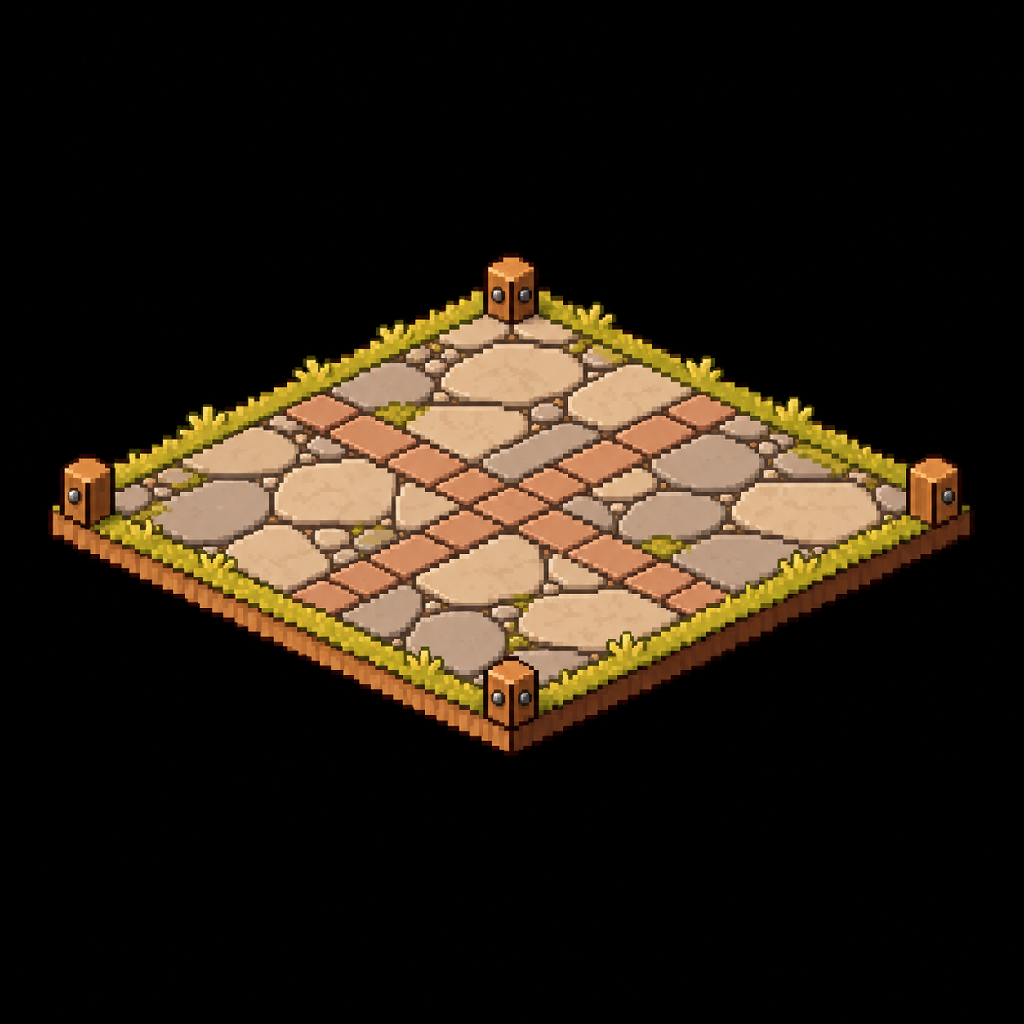
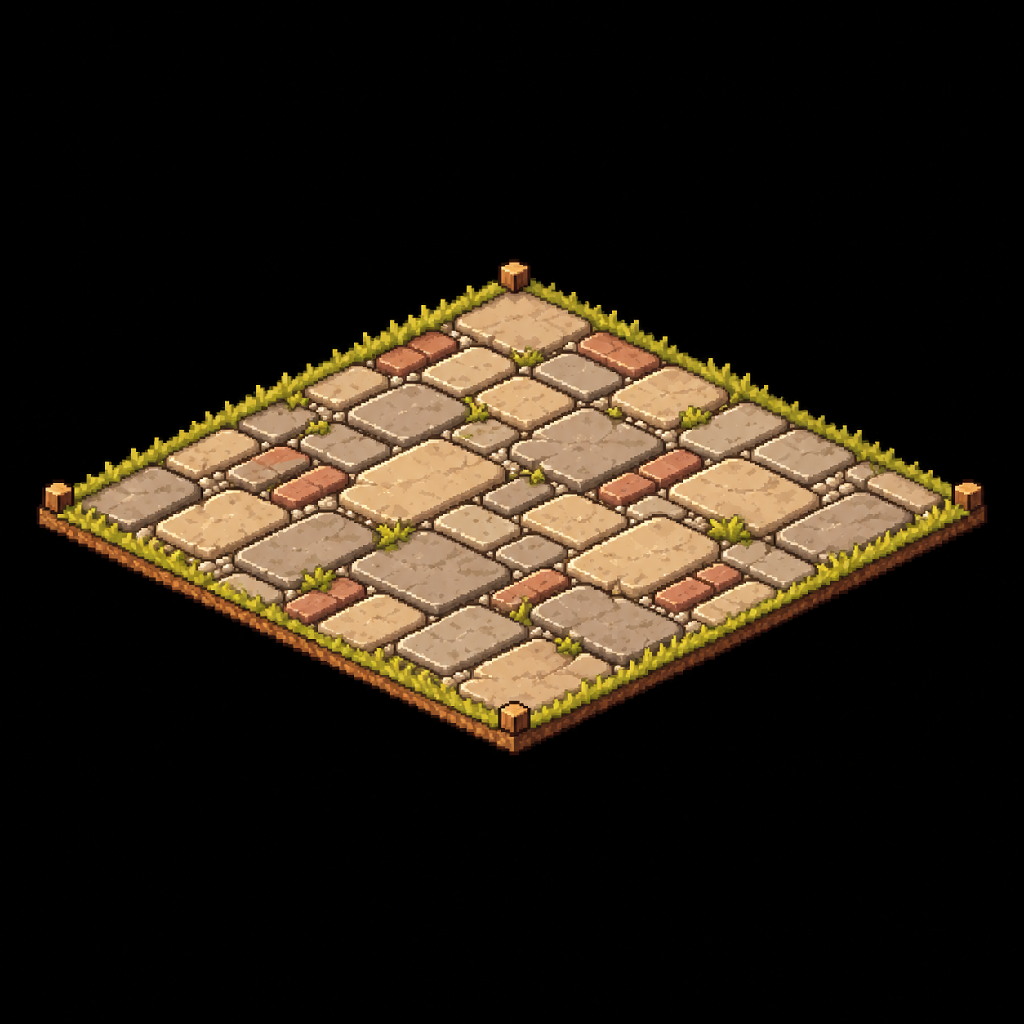
docs(art): bare empty open plot and tiny corner stakes (isometric samples)
Owner feedback (2026-11-06): the open plot must look like empty land, not
a farm field, and the corner posts must be low and small. ART_STYLE says
so for ground tiles; Codex redrew the open and the paved plot from it (v1
kept); comparison and review notes updated.

Changed region(s): [[0.0312, 0.25, 0.9688, 0.75]]

diff --git a/docs/art-review/g3e/buildings/make_prompts.py b/docs/art-review/g3e/buildings/make_prompts.py
@@ -99,14 +99,18 @@ ISO_SAMPLES = [
      'back-right part of the roof must NOT rise higher than the front part; no eave line is drawn flat. Gable end '
      'triangle on the right wall above the door, a hayloft window in that gable. '
      'Theme: farm kingdom, warm bright wood, golden straw, clay tiles.'),
-    ('sample-plot', 'one open farm plot of the Wheat king, a single flat 2:1 isometric ground tile',
-     'A diamond of freshly tilled brown soil in a few diagonal furrows, framed by a thin rim of short grass and '
-     'four small wooden fence posts at the diamond corners; the two front edges show a few pixels of earth '
-     'thickness. Flat ground only: no building, no crops standing tall. Theme: farm kingdom, warm earth and grass.'),
+    # v2 (owner feedback 2026-11-06): bare empty land, not a farm field; tiny low corner posts.
+    ('sample-plot', 'one open (empty) building plot of the Wheat king, a single flat 2:1 isometric ground tile',
+     'A diamond of BARE, EMPTY LAND waiting for a building: flat packed brown earth with a few sparse tufts of '
+     'short grass, a few small pebbles and faint patches of dry soil. It is NOT a farm field: NO furrows, NO tilled '
+     'rows, NO crops. A thin rim of short grass frames the diamond and the two front edges show a few pixels of '
+     'earth thickness. At each of the four diamond corners only a TINY, LOW wooden stake (a stub just a few pixels '
+     'tall, much smaller than in a fence) marks the corner without hiding the ground. Flat ground only: no building. '
+     'Theme: farm kingdom, warm earth and grass.'),
     # added 2026-11-06 (owner: a plot with a building on it is paved with stone)
     ('sample-plot-built', 'one built plot of the Wheat king (the ground under a building), a single flat 2:1 isometric ground tile',
-     'The SAME diamond tile as an open farm plot (same size, same thin rim of short grass, same four small wooden '
-     'fence posts at the diamond corners, same few pixels of earth thickness on the two front edges), but the '
+     'The SAME diamond tile as an open plot (same size, same thin rim of short grass, the same four TINY, LOW wooden '
+     'corner stakes only a few pixels tall, same few pixels of earth thickness on the two front edges), but the '
      'whole inside is a COURTYARD PAVED WITH STONE: warm grey and sandy flagstones and a few bricks laid along the '
      'two diagonal axes, small gravel in the joints, a little moss. Flat ground only: no building, no props. '
      'Theme: farm kingdom, warm stone, earth and grass.'),

diff --git a/docs/art-review/iso-board/make_comparison.py b/docs/art-review/iso-board/make_comparison.py
@@ -47,7 +47,7 @@ def main() -> None:
     draw = ImageDraw.Draw(sheet)
     title, label = font(30), font(20)
 
-    draw.text((30, 20), 'Mẫu isometric 2:1, bản 3 (sửa mái) — chờ chủ dự án duyệt (06/11/2026)', fill=INK, font=title)
+    draw.text((30, 20), 'Mẫu isometric 2:1 — nhà bản 3, ô đất bản 2 — chờ chủ dự án duyệt (06/11/2026)', fill=INK, font=title)
 
     # Row 1: what the game uses now (front view, 45 degrees)
     draw.text((30, 80), 'Hiện tại (chính diện 45°)', fill=INK, font=label)
@@ -67,7 +67,7 @@ def main() -> None:
     sheet.alpha_composite(b2, (30, 495))
     draw.text((30, 805), 'Thợ Gặt (cửa bên phải)', fill=INK, font=label)
     x = 30 + b2.width + 40
-    for img, cap in ((plot, 'Ô đất mở'), (built, 'Ô đã xây (sân lát đá)')):
+    for img, cap in ((plot, 'Ô trống (đất trống)'), (built, 'Ô đã xây (sân lát đá)')):
         p2 = fit(img, w=400)
         sheet.alpha_composite(p2, (x, 495 + (300 - p2.height) // 2))
         draw.text((x, 805), cap, fill=INK, font=label)

diff --git a/docs/art-review/iso-board/sample-plot/prompt.md b/docs/art-review/iso-board/sample-plot/prompt.md
@@ -2,20 +2,24 @@ Tạo MỘT ảnh pixel art bằng công cụ tạo ảnh (imagegen) và lưu đ
 
 BẮT BUỘC TRƯỚC KHI VẼ: mở và đọc `docs/ART_STYLE.md` — mục "Góc nhìn" (khung BẮT BUỘC, mục con "Isometric (trục đo 2.5D) cho sprite thế giới", khối "Prompt isometric dùng lại", "Kiểm trước khi duyệt (isometric)") và mục "Quy tắc vẽ". Ảnh tham chiếu đã duyệt được đính kèm (`docs/art-review/style-references/harvester-house-front-approved.png`): CHỈ lấy phong cách, bảng màu, chất liệu và cỡ cụm pixel từ đó, KHÔNG lấy góc nhìn chính diện của nó (góc nhìn là isometric 2:1); KHÔNG sao chép nguyên hình dạng của nó cho công trình khác.
 
-Create one isolated pixel-art asset for Crowned Kingdoms: one open farm plot of the Wheat king, a single flat 2:1 isometric ground tile.
+Create one isolated pixel-art asset for Crowned Kingdoms: one open (empty) building plot of the Wheat king, a single flat 2:1 isometric ground tile.
 Use the attached approved harvester house ONLY as the style reference (materials, warm palette,
 pixel-cluster size, dark material-colored outlines, level of detail). Do NOT copy its front-facing camera.
 ISOMETRIC view, classic 2:1 pixel-art isometric (dimetric): the ground footprint is a DIAMOND twice as
 wide as it is tall; edges that run along the ground follow the two diagonal axes as clean 2-across-1-up
 pixel steps; vertical edges stay vertical; parallel lines stay parallel (no perspective).
 For a building: two walls are visible (left wall facing south-west, right wall facing south-east) and the
-roof is seen from above; its footprint is one small diamond. For a ground tile: a flat diamond seen from
+roof is seen from above; its footprint is one small diamond. The roof sits squarely on the walls: all four
+eave corners are at the SAME height, so every eave line is PARALLEL to the wall top just below it and climbs at
+exactly 2:1 toward the back; the left and right eave corners are level with each other on screen, and the
+ridge runs parallel to one diagonal axis (never flatten one eave so that a back corner rises above the front).
+For a ground tile: a flat diamond seen from
 above with a few pixels of visible thickness on its two front edges.
 Upper-left lighting: the left (south-west) faces are lighter than the right (south-east) faces.
-Cozy warm medieval pixel art, crisp square pixel clusters. A diamond of freshly tilled brown soil in a few diagonal furrows, framed by a thin rim of short grass and four small wooden fence posts at the diamond corners; the two front edges show a few pixels of earth thickness. Flat ground only: no building, no crops standing tall. Theme: farm kingdom, warm earth and grass.
+Cozy warm medieval pixel art, crisp square pixel clusters. A diamond of BARE, EMPTY LAND waiting for a building: flat packed brown earth with a few sparse tufts of short grass, a few small pebbles and faint patches of dry soil. It is NOT a farm field: NO furrows, NO tilled rows, NO crops. A thin rim of short grass frames the diamond and the two front edges show a few pixels of earth thickness. At each of the four diamond corners only a TINY, LOW wooden stake (a stub just a few pixels tall, much smaller than in a fence) marks the corner without hiding the ground. Flat ground only: no building. Theme: farm kingdom, warm earth and grass.
 Whole asset visible, transparent background, padding around it.
 No people, text, labels, UI, watermark, blur, soft shadows or antialiasing.
 Concept preview only; native sprite size and pixel cleanup are a separate production step.
 
-YÊU CẦU SẢN XUẤT (ghi đè phần "transparent background" ở trên): ảnh 1024×1024, nền ĐEN PHẲNG #000000 hoàn toàn (không quầng sáng, không bóng đổ lên nền, không nền đất/cỏ ngoài chính vật thể). MỘT vật thể duy nhất ở giữa ảnh. Công trình: hình thoi chân rộng khoảng 440 px, đáy hình thoi chân ở khoảng y = 900. Ô đất: hình thoi rộng khoảng 900 px, cao khoảng 450 px (đúng 2:1), nằm giữa ảnh. "Pixel" lớn khoảng 7×7 điểm ảnh, cạnh thoi là bậc pixel 2 ngang – 1 dọc.
+YÊU CẦU SẢN XUẤT (ghi đè phần "transparent background" ở trên): ảnh 1024×1024, nền ĐEN PHẲNG #000000 hoàn toàn (không quầng sáng, không bóng đổ lên nền, không nền đất/cỏ ngoài chính vật thể). MỘT vật thể duy nhất ở giữa ảnh. Công trình: hình thoi chân rộng khoảng 440 px, đáy hình thoi chân ở khoảng y = 900, đứng thẳng trên nền đen (không bệ, không sàn gỗ). Ô đất: hình thoi rộng khoảng 900 px, cao khoảng 450 px (đúng 2:1), nằm giữa ảnh. "Pixel" lớn khoảng 7×7 điểm ảnh, cạnh thoi là bậc pixel 2 ngang – 1 dọc.
 Khi xong, in đường dẫn file đã lưu và kích thước ảnh.

diff --git a/docs/art-review/iso-board/sample-plot-built/v1-prompt.md b/docs/art-review/iso-board/sample-plot-built/v1-prompt.md
@@ -1,0 +1,21 @@
+Tạo MỘT ảnh pixel art bằng công cụ tạo ảnh (imagegen) và lưu đúng một file PNG vào `docs/art-review/iso-board/sample-plot-built/source.png` (sao chép vào đó nếu ảnh tạo ra nằm ngoài repo; tạo thư mục nếu chưa có). Không sửa file khác, không commit, không chạy node/npm.
+
+BẮT BUỘC TRƯỚC KHI VẼ: mở và đọc `docs/ART_STYLE.md` — mục "Góc nhìn" (khung BẮT BUỘC, mục con "Isometric (trục đo 2.5D) cho sprite thế giới", khối "Prompt isometric dùng lại", "Kiểm trước khi duyệt (isometric)") và mục "Quy tắc vẽ". Ảnh tham chiếu đã duyệt được đính kèm (`docs/art-review/style-references/harvester-house-front-approved.png`): CHỈ lấy phong cách, bảng màu, chất liệu và cỡ cụm pixel từ đó, KHÔNG lấy góc nhìn chính diện của nó (góc nhìn là isometric 2:1); KHÔNG sao chép nguyên hình dạng của nó cho công trình khác.
+
+Create one isolated pixel-art asset for Crowned Kingdoms: one built plot of the Wheat king (the ground under a building), a single flat 2:1 isometric ground tile.
+Use the attached approved harvester house ONLY as the style reference (materials, warm palette,
+pixel-cluster size, dark material-colored outlines, level of detail). Do NOT copy its front-facing camera.
+ISOMETRIC view, classic 2:1 pixel-art isometric (dimetric): the ground footprint is a DIAMOND twice as
+wide as it is tall; edges that run along the ground follow the two diagonal axes as clean 2-across-1-up
+pixel steps; vertical edges stay vertical; parallel lines stay parallel (no perspective).
+For a building: two walls are visible (left wall facing south-west, right wall facing south-east) and the
+roof is seen from above; its footprint is one small diamond. For a ground tile: a flat diamond seen from
+above with a few pixels of visible thickness on its two front edges.
+Upper-left lighting: the left (south-west) faces are lighter than the right (south-east) faces.
+Cozy warm medieval pixel art, crisp square pixel clusters. The SAME diamond tile as an open farm plot (same size, same thin rim of short grass, same four small wooden fence posts at the diamond corners, same few pixels of earth thickness on the two front edges), but the whole inside is a COURTYARD PAVED WITH STONE: warm grey and sandy flagstones and a few bricks laid along the two diagonal axes, small gravel in the joints, a little moss. Flat ground only: no building, no props. Theme: farm kingdom, warm stone, earth and grass.
+Whole asset visible, transparent background, padding around it.
+No people, text, labels, UI, watermark, blur, soft shadows or antialiasing.
+Concept preview only; native sprite size and pixel cleanup are a separate production step.
+
+YÊU CẦU SẢN XUẤT (ghi đè phần "transparent background" ở trên): ảnh 1024×1024, nền ĐEN PHẲNG #000000 hoàn toàn (không quầng sáng, không bóng đổ lên nền, không nền đất/cỏ ngoài chính vật thể). MỘT vật thể duy nhất ở giữa ảnh. Công trình: hình thoi chân rộng khoảng 440 px, đáy hình thoi chân ở khoảng y = 900, đứng thẳng trên nền đen (không bệ, không sàn gỗ). Ô đất: hình thoi rộng khoảng 900 px, cao khoảng 450 px (đúng 2:1), nằm giữa ảnh. "Pixel" lớn khoảng 7×7 điểm ảnh, cạnh thoi là bậc pixel 2 ngang – 1 dọc.
+Khi xong, in đường dẫn file đã lưu và kích thước ảnh.

diff --git a/docs/art-review/iso-board/sample-plot/v1-prompt.md b/docs/art-review/iso-board/sample-plot/v1-prompt.md
@@ -1,0 +1,21 @@
+Tạo MỘT ảnh pixel art bằng công cụ tạo ảnh (imagegen) và lưu đúng một file PNG vào `docs/art-review/iso-board/sample-plot/source.png` (sao chép vào đó nếu ảnh tạo ra nằm ngoài repo; tạo thư mục nếu chưa có). Không sửa file khác, không commit, không chạy node/npm.
+
+BẮT BUỘC TRƯỚC KHI VẼ: mở và đọc `docs/ART_STYLE.md` — mục "Góc nhìn" (khung BẮT BUỘC, mục con "Isometric (trục đo 2.5D) cho sprite thế giới", khối "Prompt isometric dùng lại", "Kiểm trước khi duyệt (isometric)") và mục "Quy tắc vẽ". Ảnh tham chiếu đã duyệt được đính kèm (`docs/art-review/style-references/harvester-house-front-approved.png`): CHỈ lấy phong cách, bảng màu, chất liệu và cỡ cụm pixel từ đó, KHÔNG lấy góc nhìn chính diện của nó (góc nhìn là isometric 2:1); KHÔNG sao chép nguyên hình dạng của nó cho công trình khác.
+
+Create one isolated pixel-art asset for Crowned Kingdoms: one open farm plot of the Wheat king, a single flat 2:1 isometric ground tile.
+Use the attached approved harvester house ONLY as the style reference (materials, warm palette,
+pixel-cluster size, dark material-colored outlines, level of detail). Do NOT copy its front-facing camera.
+ISOMETRIC view, classic 2:1 pixel-art isometric (dimetric): the ground footprint is a DIAMOND twice as
+wide as it is tall; edges that run along the ground follow the two diagonal axes as clean 2-across-1-up
+pixel steps; vertical edges stay vertical; parallel lines stay parallel (no perspective).
+For a building: two walls are visible (left wall facing south-west, right wall facing south-east) and the
+roof is seen from above; its footprint is one small diamond. For a ground tile: a flat diamond seen from
+above with a few pixels of visible thickness on its two front edges.
+Upper-left lighting: the left (south-west) faces are lighter than the right (south-east) faces.
+Cozy warm medieval pixel art, crisp square pixel clusters. A diamond of freshly tilled brown soil in a few diagonal furrows, framed by a thin rim of short grass and four small wooden fence posts at the diamond corners; the two front edges show a few pixels of earth thickness. Flat ground only: no building, no crops standing tall. Theme: farm kingdom, warm earth and grass.
+Whole asset visible, transparent background, padding around it.
+No people, text, labels, UI, watermark, blur, soft shadows or antialiasing.
+Concept preview only; native sprite size and pixel cleanup are a separate production step.
+
+YÊU CẦU SẢN XUẤT (ghi đè phần "transparent background" ở trên): ảnh 1024×1024, nền ĐEN PHẲNG #000000 hoàn toàn (không quầng sáng, không bóng đổ lên nền, không nền đất/cỏ ngoài chính vật thể). MỘT vật thể duy nhất ở giữa ảnh. Công trình: hình thoi chân rộng khoảng 440 px, đáy hình thoi chân ở khoảng y = 900. Ô đất: hình thoi rộng khoảng 900 px, cao khoảng 450 px (đúng 2:1), nằm giữa ảnh. "Pixel" lớn khoảng 7×7 điểm ảnh, cạnh thoi là bậc pixel 2 ngang – 1 dọc.
+Khi xong, in đường dẫn file đã lưu và kích thước ảnh.

diff --git a/docs/art-review/iso-board/sample-review.md b/docs/art-review/iso-board/sample-review.md
@@ -7,8 +7,10 @@ Spec: `docs/superpowers/specs/2026-11-06-iso-board-redesign-design.md` §4. Quy 
 | Công trình: Đội Thợ Gặt, isometric — bản 3 | `sample-building/source.png` (1024×1024, nền đen) | `sample-building/prompt.md` | **Chờ chủ dự án duyệt** |
 | ↳ bản 2 (góc mái sau bên phải bị nâng cao hơn mái trước) | `sample-building/v2-source.png` | `sample-building/v2-prompt.md` | Chủ dự án yêu cầu sửa |
 | ↳ bản 1 (cửa bên trái, có bệ gỗ) | `sample-building/v1-source.png` | `sample-building/v1-prompt.md` | Chủ dự án yêu cầu sửa |
-| Ô đất mở của Lúa Mì, isometric | `sample-plot/source.png` (1024×1024, nền đen) | `sample-plot/prompt.md` | **Chờ chủ dự án duyệt** (chưa có góp ý) |
-| Ô đã xây (sân lát đá), isometric | `sample-plot-built/source.png` (1024×1024, nền đen) | `sample-plot-built/prompt.md` | **Chờ chủ dự án duyệt** |
+| Ô trống (đất trống), isometric — bản 2 | `sample-plot/source.png` (1024×1024, nền đen) | `sample-plot/prompt.md` | **Chờ chủ dự án duyệt** |
+| ↳ bản 1 (ruộng có luống, cọc cao) | `sample-plot/v1-source.png` | `sample-plot/v1-prompt.md` | Chủ dự án yêu cầu sửa |
+| Ô đã xây (sân lát đá), isometric — bản 2 | `sample-plot-built/source.png` (1024×1024, nền đen) | `sample-plot-built/prompt.md` | **Chờ chủ dự án duyệt** |
+| ↳ bản 1 (cọc cao) | `sample-plot-built/v1-source.png` | `sample-plot-built/v1-prompt.md` | Chủ dự án yêu cầu sửa |
 
 **Góp ý của chủ dự án về bản 1 (06/11/2026)**, đã áp dụng trong bản 2 và trong code:
 
@@ -30,3 +32,6 @@ Spec: `docs/superpowers/specs/2026-11-06-iso-board-redesign-design.md` §4. Quy 
 **Claude tự kiểm bản 3:**
 - Đạt: góc diềm mái trái (y ≈ 440) và phải (y ≈ 450) gần ngang nhau; sống mái chạy theo trục chéo; cửa ở tường phải, có cửa sổ gác xép ở đầu hồi.
 - Còn lệch: tường phải dốc khoảng 3:1, tường trái khoảng 2,2:1. Nghĩa là tường phải thoải hơn chuẩn 2:1; có thể nắn lại khi làm sạch sprite native hoặc vẽ lại.
+
+**Góp ý về ô đất (06/11/2026):** cọc góc phải thấp và nhỏ; ô trống phải là một mảnh đất trống, không giống ruộng. Bản 2 đã sửa, và ART_STYLE đã ghi quy tắc này ở gạch đầu dòng "Mặt đất".
+- **Claude tự kiểm:** ô trống bản 2 là đất nện với vài khóm cỏ và sỏi, không có luống; cọc chỉ cao vài pixel. Hai ô chưa khớp nhau hoàn toàn: cọc ô trống là gốc tròn, cọc ô lát đá là khối vuông nhỏ hơn, và mép đất của ô lát đá mỏng hơn. Hai điểm này sẽ được làm đồng nhất khi làm sạch sprite native.

diff --git a/docs/art-review/iso-board/sample-plot-built/prompt.md b/docs/art-review/iso-board/sample-plot-built/prompt.md
@@ -9,10 +9,14 @@ ISOMETRIC view, classic 2:1 pixel-art isometric (dimetric): the ground footprint
 wide as it is tall; edges that run along the ground follow the two diagonal axes as clean 2-across-1-up
 pixel steps; vertical edges stay vertical; parallel lines stay parallel (no perspective).
 For a building: two walls are visible (left wall facing south-west, right wall facing south-east) and the
-roof is seen from above; its footprint is one small diamond. For a ground tile: a flat diamond seen from
+roof is seen from above; its footprint is one small diamond. The roof sits squarely on the walls: all four
+eave corners are at the SAME height, so every eave line is PARALLEL to the wall top just below it and climbs at
+exactly 2:1 toward the back; the left and right eave corners are level with each other on screen, and the
+ridge runs parallel to one diagonal axis (never flatten one eave so that a back corner rises above the front).
+For a ground tile: a flat diamond seen from
 above with a few pixels of visible thickness on its two front edges.
 Upper-left lighting: the left (south-west) faces are lighter than the right (south-east) faces.
-Cozy warm medieval pixel art, crisp square pixel clusters. The SAME diamond tile as an open farm plot (same size, same thin rim of short grass, same four small wooden fence posts at the diamond corners, same few pixels of earth thickness on the two front edges), but the whole inside is a COURTYARD PAVED WITH STONE: warm grey and sandy flagstones and a few bricks laid along the two diagonal axes, small gravel in the joints, a little moss. Flat ground only: no building, no props. Theme: farm kingdom, warm stone, earth and grass.
+Cozy warm medieval pixel art, crisp square pixel clusters. The SAME diamond tile as an open plot (same size, same thin rim of short grass, the same four TINY, LOW wooden corner stakes only a few pixels tall, same few pixels of earth thickness on the two front edges), but the whole inside is a COURTYARD PAVED WITH STONE: warm grey and sandy flagstones and a few bricks laid along the two diagonal axes, small gravel in the joints, a little moss. Flat ground only: no building, no props. Theme: farm kingdom, warm stone, earth and grass.
 Whole asset visible, transparent background, padding around it.
 No people, text, labels, UI, watermark, blur, soft shadows or antialiasing.
 Concept preview only; native sprite size and pixel cleanup are a separate production step.
